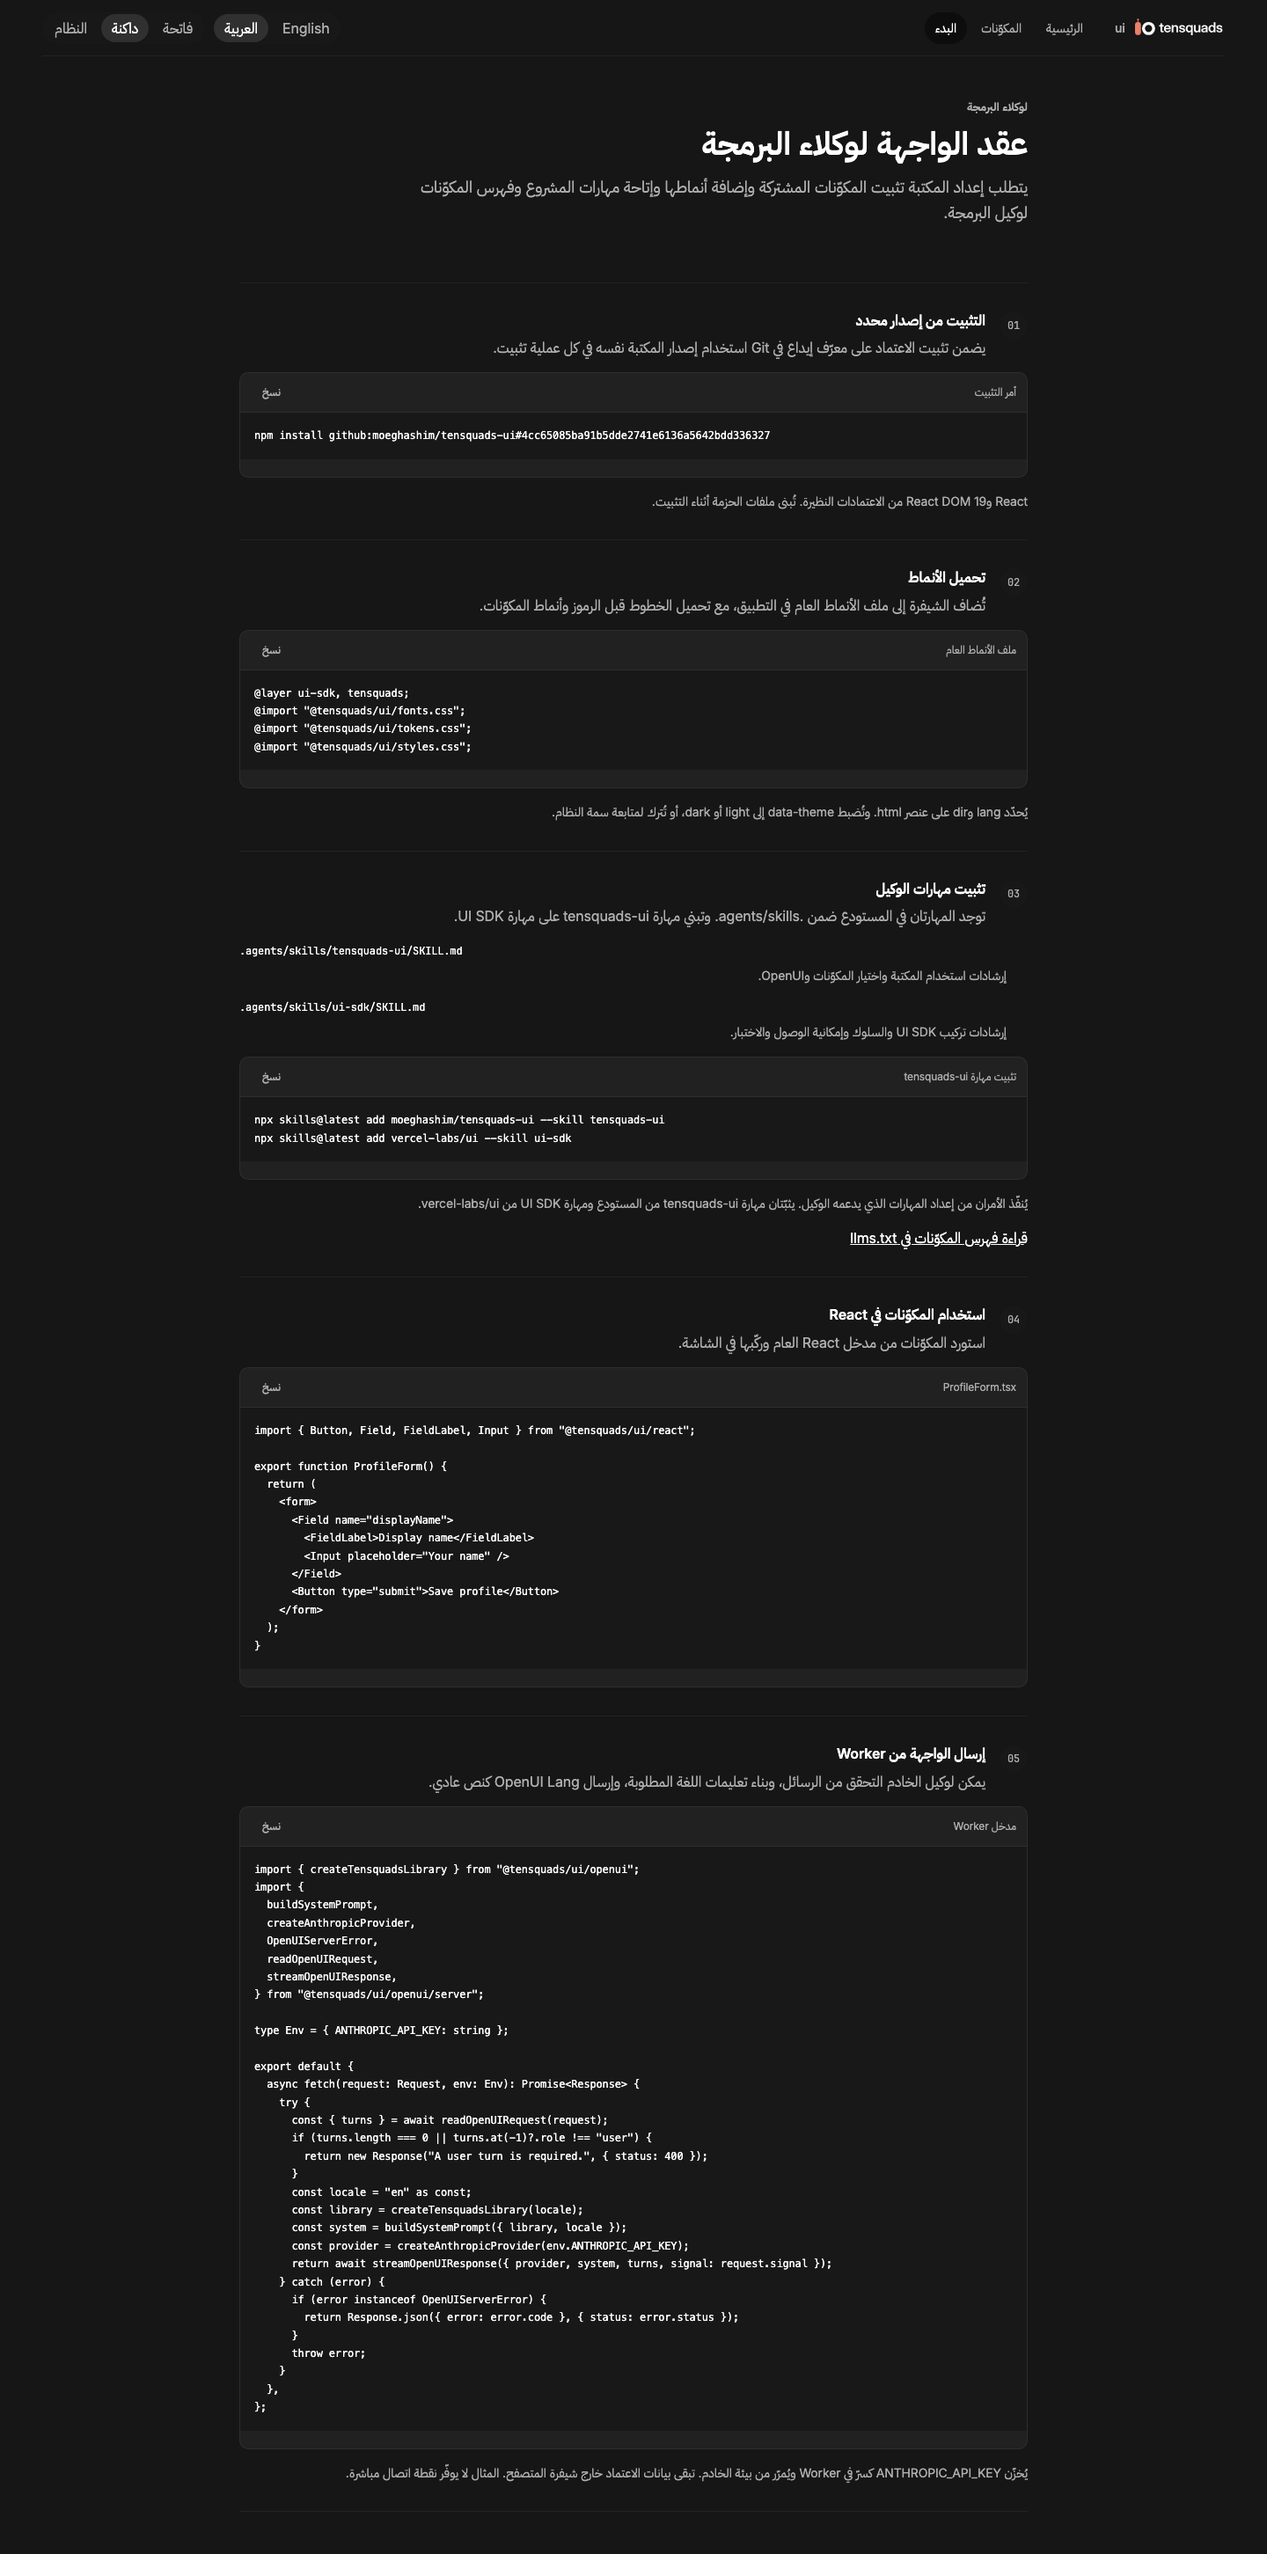
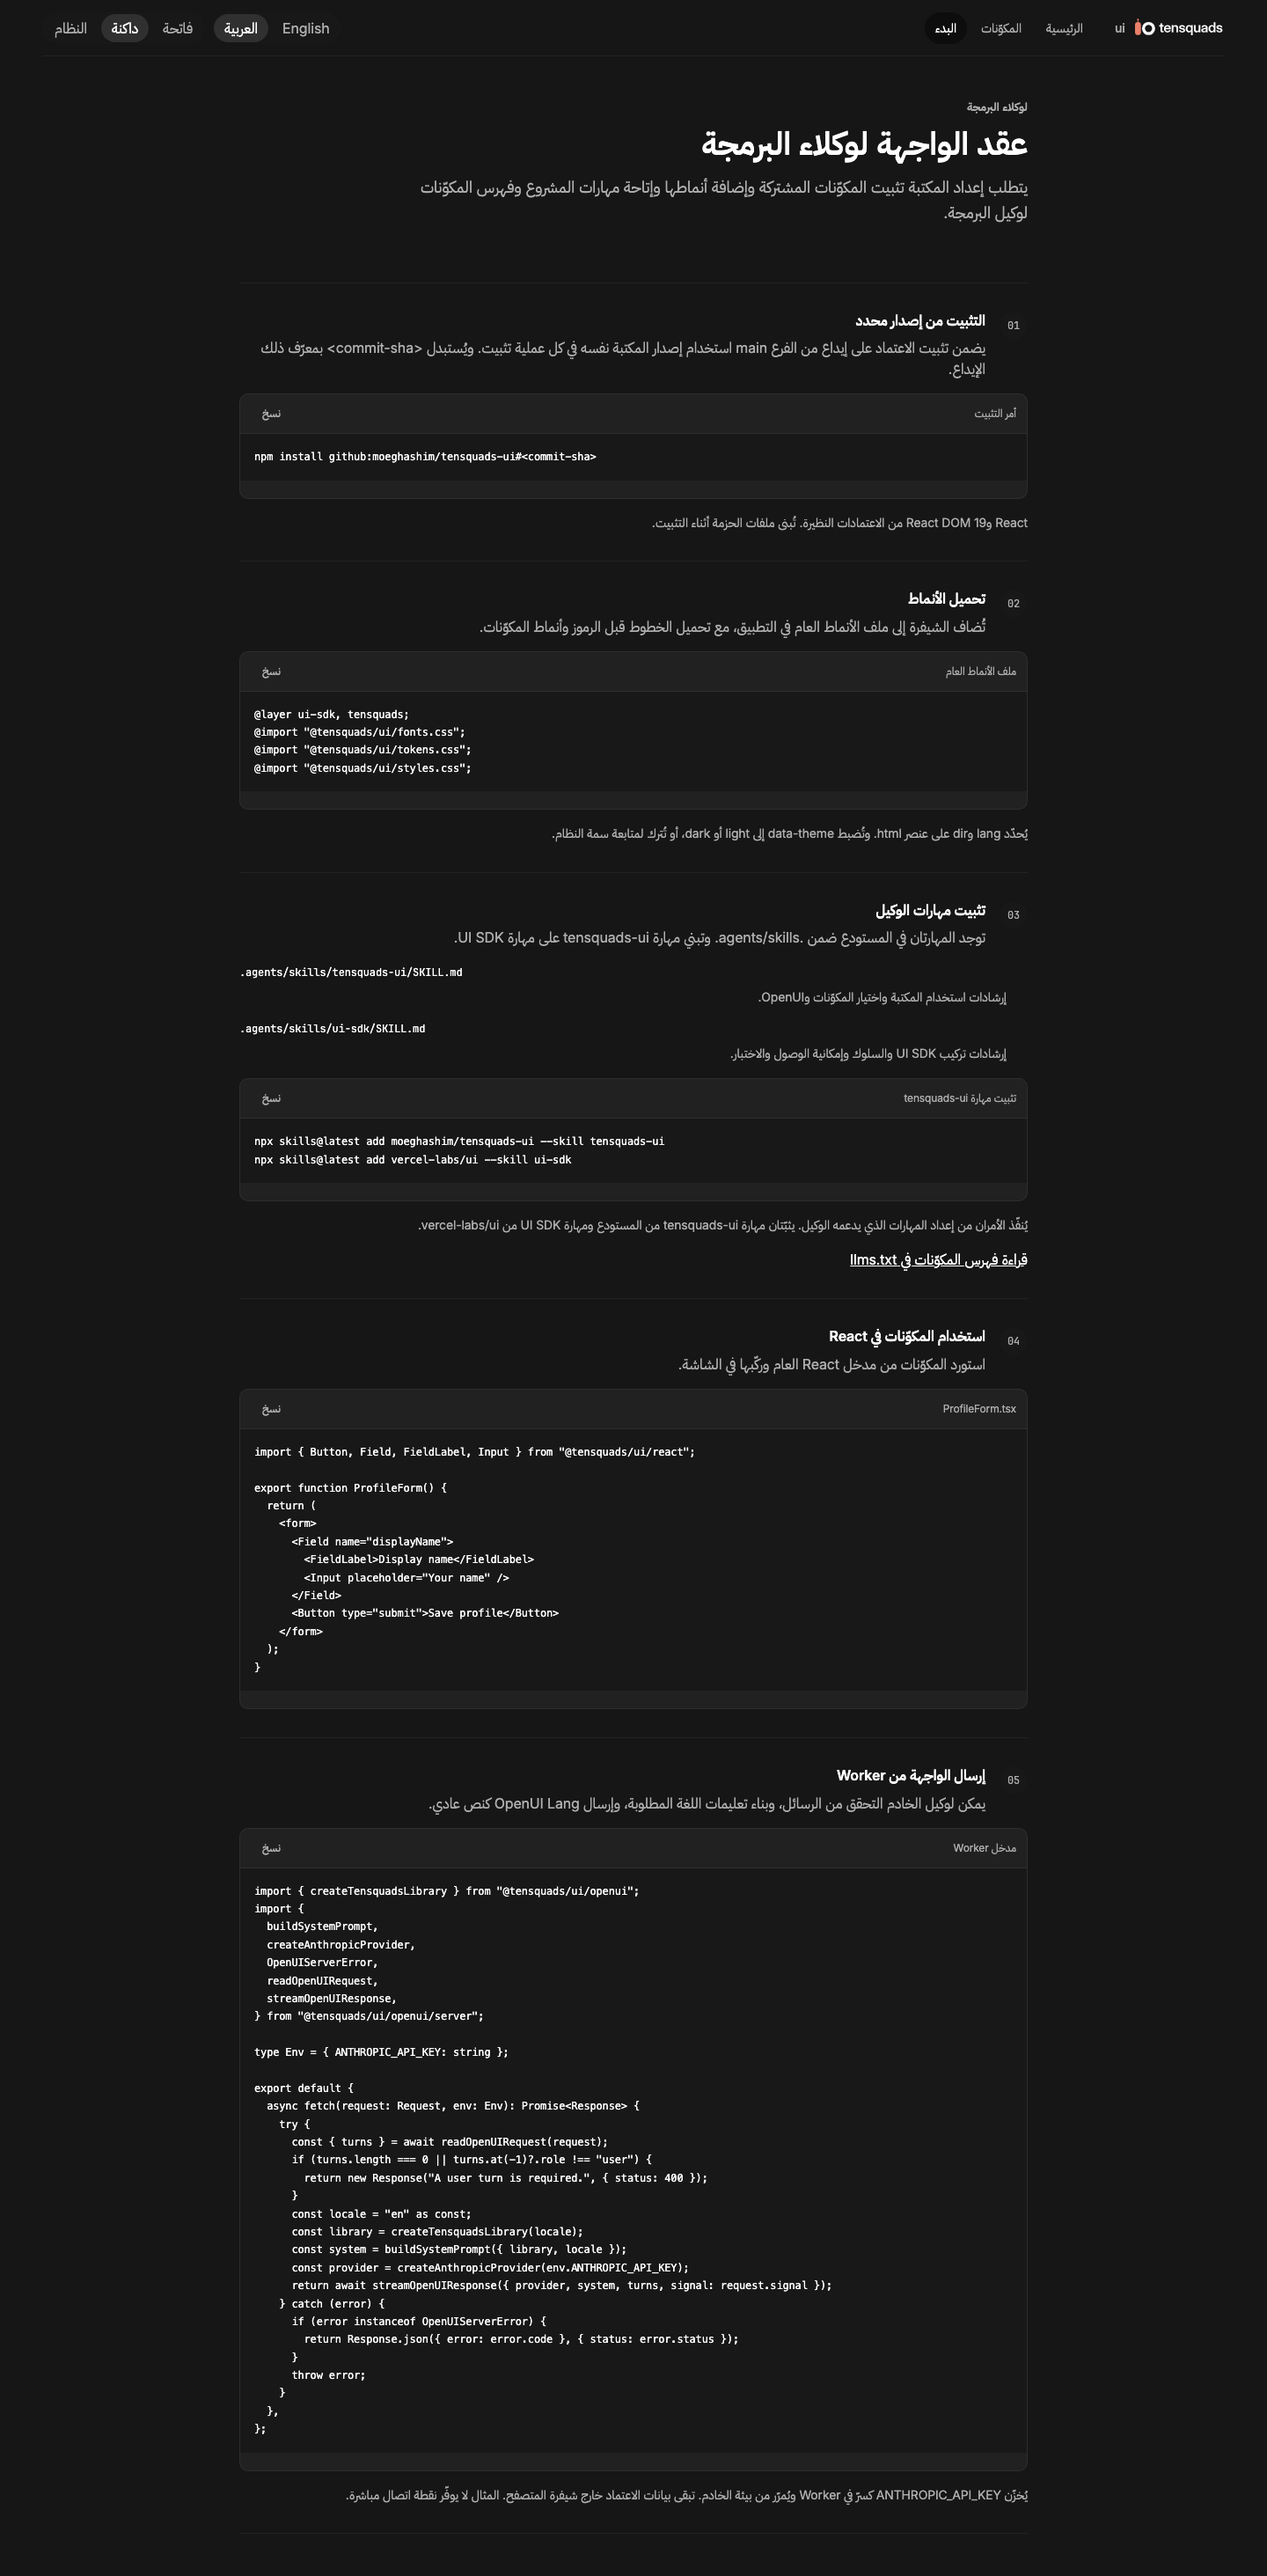
no-mistakes: evidence for feat/v0.2-home-003-get-started (run 01M7R4CTBZTBMJVH4YMQ1VCZ33)

diff --git a/.no-mistakes/evidence/feat/v0.2-home-003-get-started/live-checks.spec.ts b/.no-mistakes/evidence/feat/v0.2-home-003-get-started/live-checks.spec.ts
@@ -1,0 +1,52 @@
+import { expect, test } from '@playwright/test';
+import { writeFile, rm } from 'node:fs/promises';
+const evidence = '~/.no-mistakes/evidence/01M7R4CTBZTBMJVH4YMQ1VCZ33';
+for (const locale of ['en', 'ar']) {
+ test(`real clipboard copies every ${locale} example and denied writes show recovery`, async ({ page, context }) => {
+  await context.grantPermissions(['clipboard-read', 'clipboard-write']);
+  await page.goto(`/get-started?locale=${locale}&dir=${locale === 'ar' ? 'rtl' : 'ltr'}&theme=light`);
+  const blocks = page.locator('.get-started-code');
+  const transcript = [];
+  for (let i = 0; i < 5; i++) {
+   const block = blocks.nth(i);
+   const rendered = await block.locator('code').innerText();
+   await block.getByRole('button').click();
+   await expect(block.getByRole('status')).toHaveText(locale === 'ar' ? 'تم النسخ' : 'Copied');
+   const copied = await page.evaluate(() => navigator.clipboard.readText());
+   expect(copied).toBe(rendered);
+   if (i === 0) expect(copied).toBe('npm install github:moeghashim/tensquads-ui#<commit-sha>');
+   transcript.push({ sample: i + 1, copied });
+   if (i === 4) await writeFile(`.get-started-worker-${locale}.ts`, copied);
+  }
+  await page.route('**/get-started?**', async route => {
+   const response = await route.fetch();
+   await route.fulfill({ response, headers: { ...response.headers(), 'permissions-policy': 'clipboard-write=()' } });
+  });
+  await page.reload();
+  await blocks.first().getByRole('button').click();
+  const failure = locale === 'ar' ? 'تعذّر النسخ. حدّد الشيفرة وانسخها يدوياً.' : 'Copy failed. Select the code and copy it manually.';
+  await expect(blocks.first().getByRole('status')).toHaveText(failure);
+  await expect(blocks.first().getByRole('button')).toHaveText(locale === 'ar' ? 'نسخ' : 'Copy');
+  await blocks.first().scrollIntoViewIfNeeded();
+  await page.screenshot({ path: `${evidence}/clipboard-denied-${locale}.png`, fullPage: false });
+  await writeFile(`${evidence}/clipboard-${locale}.json`, JSON.stringify({ locale, transcript, deniedWrite: failure }, null, 2));
+ });
+}
+test('copied Worker rejects empty and assistant-ended local synthetic histories with 400', async () => {
+ const transcript = [];
+ try {
+  for (const locale of ['en', 'ar']) {
+   const worker = (await import(`../.get-started-worker-${locale}.ts`)).default;
+   for (const turns of [[], [{role:'assistant', content:'Done'}], [{role:'user',content:'Hello'}, {role:'assistant',content:'Done'}]]) {
+    const response = await worker.fetch(new Request('http://localhost/openui', { method: 'POST', headers: {'content-type':'application/json'}, body: JSON.stringify({turns}) }), {});
+    const body = await response.text();
+    expect(response.status).toBe(400);
+    expect(body).toBe('A user turn is required.');
+    transcript.push({locale, turns, status: response.status, body});
+   }
+  }
+  await writeFile(`${evidence}/worker-guard.json`, JSON.stringify(transcript, null, 2));
+ } finally {
+  for (const locale of ['en','ar']) await rm(`.get-started-worker-${locale}.ts`, { force: true });
+ }
+});

diff --git a/.no-mistakes/evidence/feat/v0.2-home-003-get-started/local-playwright.config.ts b/.no-mistakes/evidence/feat/v0.2-home-003-get-started/local-playwright.config.ts
@@ -1,0 +1,10 @@
+import config from './playwright.config';
+export default {
+ ...config,
+ use: { ...config.use, baseURL: 'http://127.0.0.1:5278' },
+ webServer: {
+  ...config.webServer,
+  command: 'npm run build:preview && cd apps/preview && ./node_modules/.bin/wrangler dev --config dist/server/wrangler.json --ip 127.0.0.1 --port 5278',
+  url: 'http://127.0.0.1:5278',
+ },
+};
